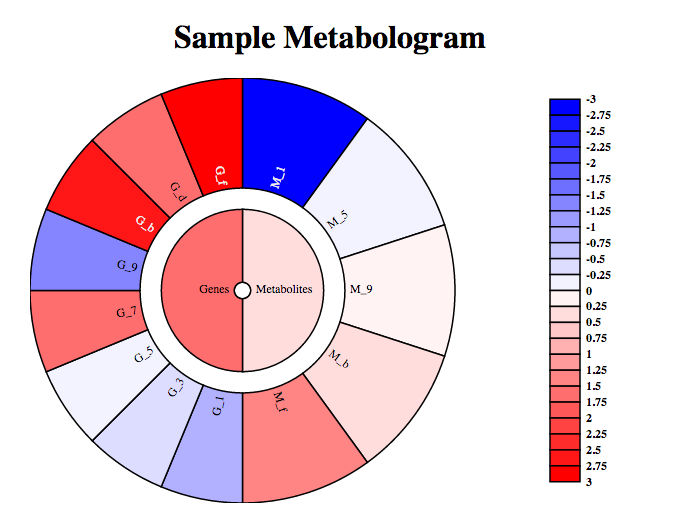
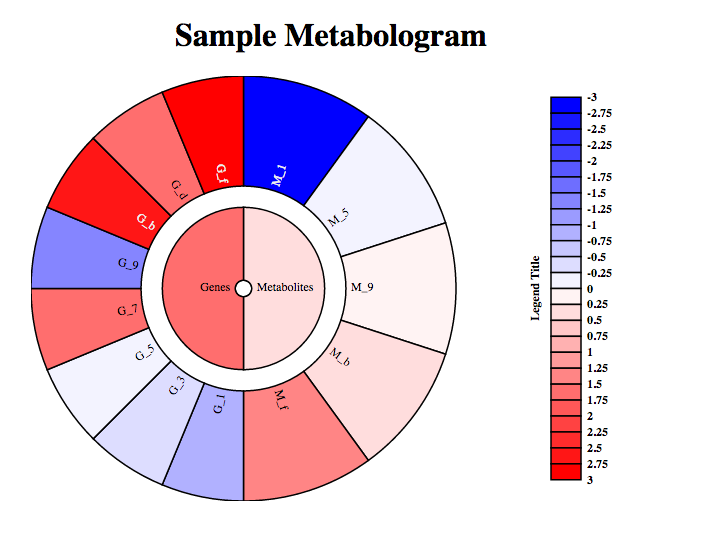
added support for customizable legend title.

diff --git a/inst/htmlwidgets/d3-coffeewheel.js b/inst/htmlwidgets/d3-coffeewheel.js
@@ -1,4 +1,4 @@
-var initializeCoffeeWheel = function(data, el, width, height, mainTitle, fontSize, showLegend, legendColors, legendBreaks) {
+var initializeCoffeeWheel = function(data, el, width, height, mainTitle, fontSize, showLegend, legendColors, legendBreaks, legendText) {
     var legendWidth = 100;
 
     var orgWidth = width;
@@ -161,7 +161,7 @@ var initializeCoffeeWheel = function(data, el, width, height, mainTitle, fontSiz
             .style("stroke-width", 1.5)
           ;
 
-          var breakTxt = lviz.selectAll("text").data(legendBreaks);
+          var breakTxt = lviz.append("g").selectAll("text").data(legendBreaks);
           breakTxt.enter().append("text")
             .attr("dx", lx + fontSize*3)
             .attr("dy", function(d, i) { return ly(i) + fontSize/3; })
@@ -169,6 +169,20 @@ var initializeCoffeeWheel = function(data, el, width, height, mainTitle, fontSiz
             .style("font-weight", "bold")
             .style("color", "#000")
             .text(function(d) { return d; });
+
+          var legX = lx - fontSize;
+          var legY = ly((legendBreaks.length-1)/2);
+          var legendTitle = lviz.append("g").selectAll("text").data([legendText]);
+          legendTitle.enter().append("text")
+            .attr("dx", legX)
+            .attr("dy", legY)
+            .attr("transform", "rotate(-90 " + legX + "," + legY + ")")
+            .style("text-anchor", "middle")
+            .style("font-size", fontSize + "px")
+            .style("font-weight", "bold")
+            .style("color", "#000")
+            .text(function(d) { return d; })
+          ;
       }
 
       function click(d) {

diff --git a/inst/htmlwidgets/metabologram.js b/inst/htmlwidgets/metabologram.js
@@ -11,13 +11,13 @@ HTMLWidgets.widget({
   },
 
   renderValue: function(el, x, instance) {
-    initializeCoffeeWheel(x.treeData, el, instance.width, instance.height, x.main, x.fontSize, x.showLegend, x.legendColors, x.legendBreaks);
+    initializeCoffeeWheel(x.treeData, el, instance.width, instance.height, x.main, x.fontSize, x.showLegend, x.legendColors, x.legendBreaks, x.legendText);
     instance["x"] = x;
   },
 
   resize: function(el, width, height, instance) {
     el.innerHTML = "";
-    initializeCoffeeWheel(instance.x.treeData, el, width, height, instance.x.main, instance.x.fontSize, instance.x.showLegend, instance.x.legendColors, instance.x.legendBreaks);
+    initializeCoffeeWheel(instance.x.treeData, el, width, height, instance.x.main, instance.x.fontSize, instance.x.showLegend, instance.x.legendColors, instance.x.legendBreaks, instance.x.legendText);
     instance.width = width;
     instance.height = height;
   }
